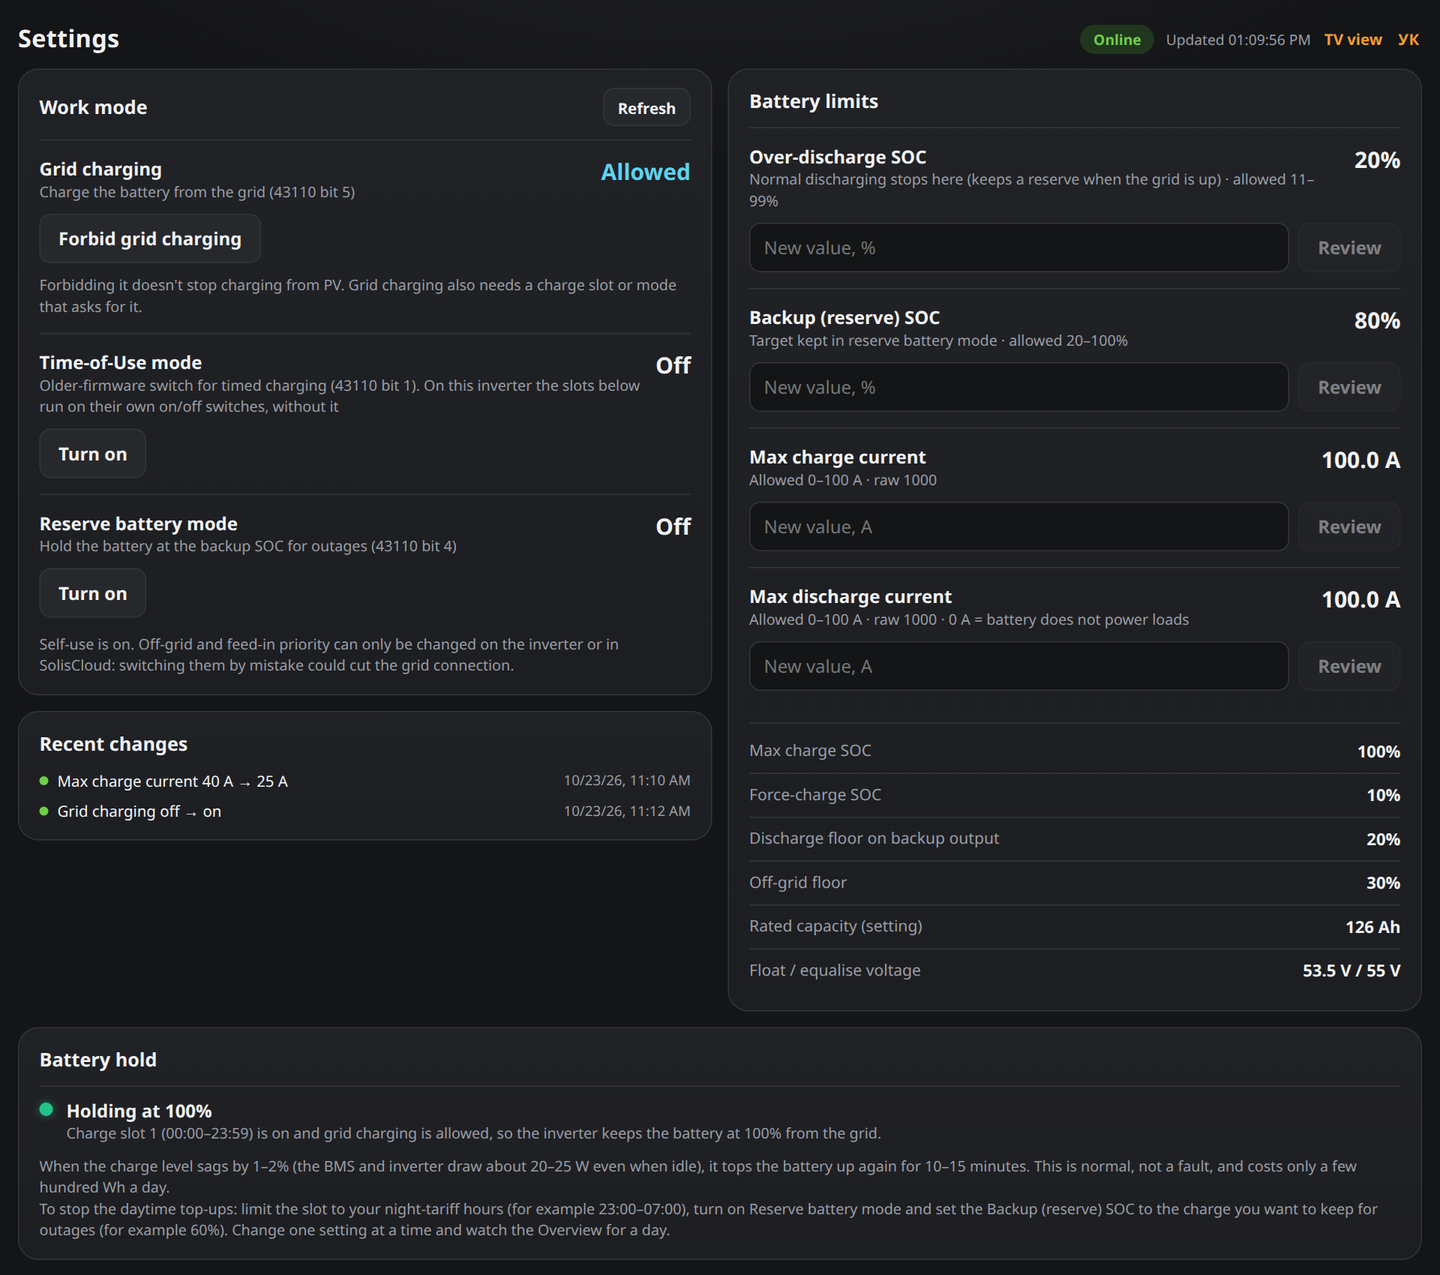
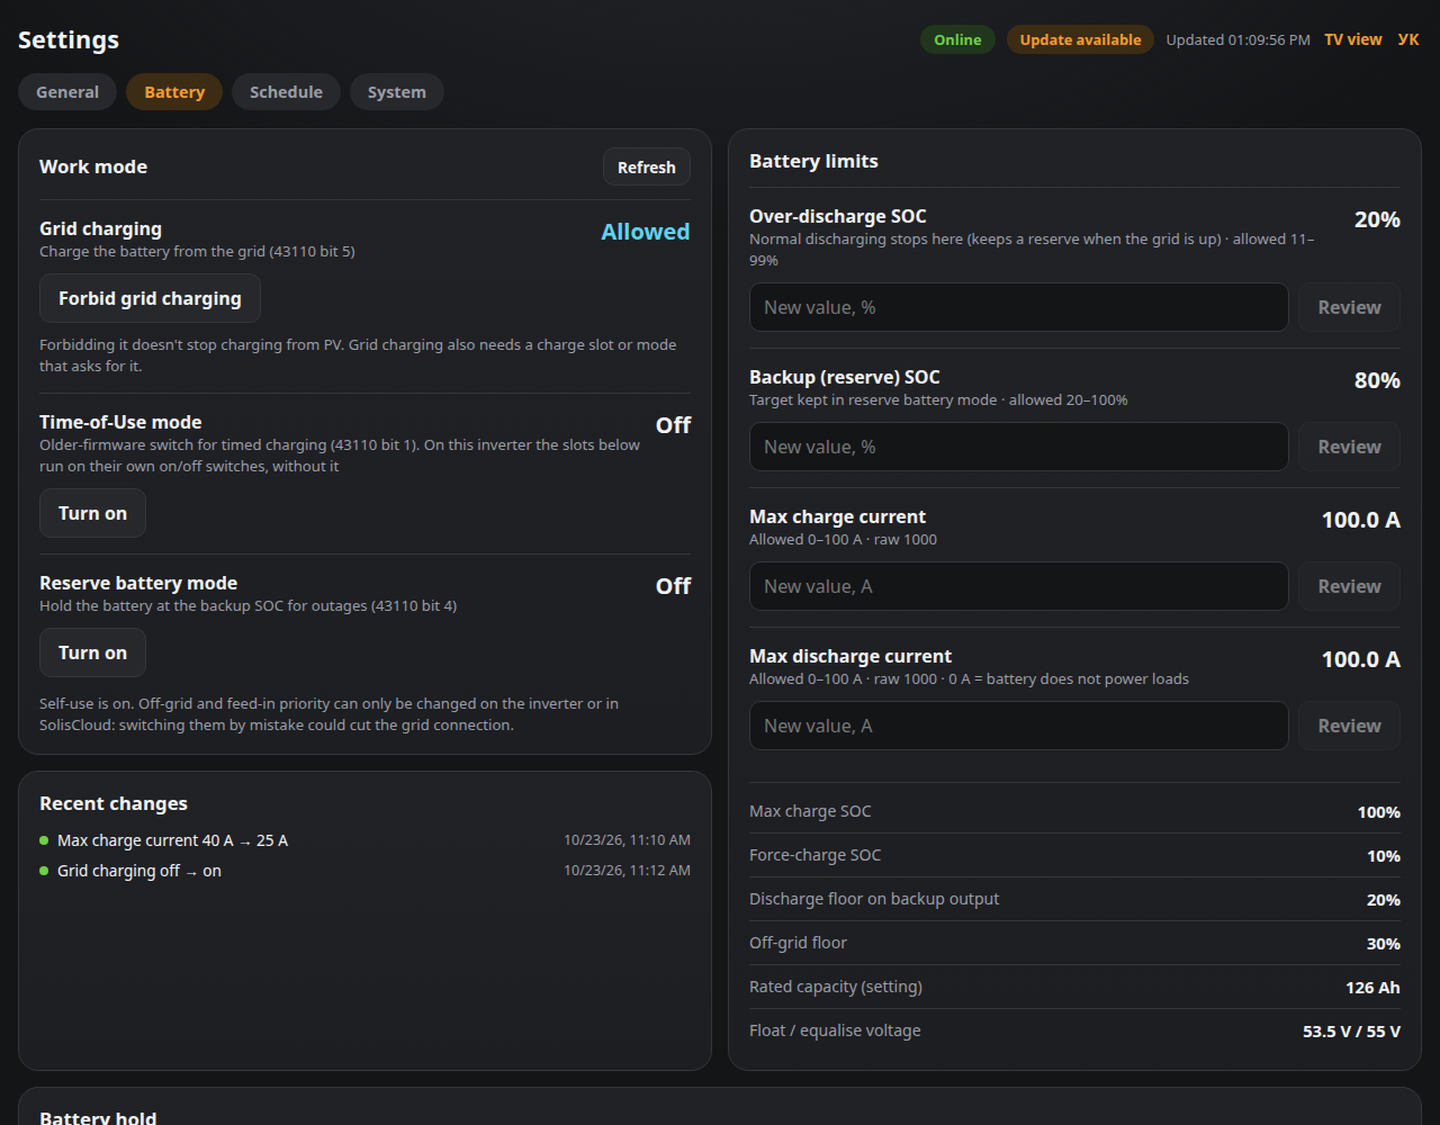
Settings page in tabs: General, Battery, Schedule, System
General holds the tariff beside the inverter clock and storage mode, aligned to the same bottom line; Battery has
work mode, recent changes, limits and battery hold; System has the Software card. The tab is in the URL and the
Update available badge opens System. Docs and screenshot updated.

diff --git a/web/frontend/src/pages/Settings.tsx b/web/frontend/src/pages/Settings.tsx
@@ -3,6 +3,8 @@ import { useCallback, useEffect, useState } from 'preact/hooks';
 import { Card, Header, Skeleton } from '../components/common';
 import { TariffCard } from '../components/TariffCard';
 import { UpdateCard } from '../components/UpdateCard';
+import { goTo } from '../lib/nav';
+import { SETTINGS_TABS, tabFrom, type SettingsTab } from '../lib/settingsTabs';
 import { ApiError, getJson } from '../lib/api';
 import { holdInfo } from '../lib/hold';
 import { locale, t, tx, unit } from '../lib/i18n';
@@ -286,6 +288,10 @@ function ClockCard({ s, wait, onPropose }: { s: SettingsPayload; wait: number; o
   );
 }
 
+const TAB_LABELS: Record<SettingsTab, string> = {
+  general: tx('General'), battery: tx('Battery'), schedule: tx('Schedule'), system: tx('System'),
+};
+
 export function Settings({ live, now }: { live: LiveState; now: number }) {
   const [s, setS] = useState<SettingsPayload | null>(null);
   const [loadedAt, setLoadedAt] = useState(0);
@@ -337,6 +343,81 @@ export function Settings({ live, now }: { live: LiveState; now: number }) {
 
   const propose = (p: Pending) => { setOutcome(null); setPending(p); };
 
+  const tab = tabFrom(location.search);
+  const workCard = (
+<Card title="Work mode" aside={
+            <button type="button" class="btn btn-small" onClick={load} disabled={loading}>{loading ? t('Reading…') : t('Refresh')}</button>
+          }>
+            {!s ? <Skeleton h={220} /> : (
+              <>
+                <FlagRow s={s} k="grid_charging" wait={wait} onPropose={propose}>
+                  {t('Forbidding it doesn\'t stop charging from PV. Grid charging also needs a charge slot or mode that asks for it.')}
+                </FlagRow>
+                <FlagRow s={s} k="time_of_use_mode" wait={wait} onPropose={propose} />
+                <FlagRow s={s} k="reserve_mode" wait={wait} onPropose={propose} />
+                <div class="setting-hint">
+                  {t('Self-use is {state}.', { state: s.storage_flags.self_use ? t('on') : t('off') })}{' '}
+                  {t('Off-grid and feed-in priority can only be changed on the inverter or in SolisCloud: switching them by mistake could cut the grid connection.')}
+                </div>
+                {s.web.can_change && wait > 0 && <div class="setting-hint" data-testid="wait">{t('Next change allowed in {n} s', { n: wait })}</div>}
+              </>
+            )}
+          </Card>
+  );
+  const limitsCard = (
+<Card title="Battery limits">
+            {!s ? <Skeleton h={220} /> : (
+              <>
+                <SocRow s={s} k="overdischarge_soc" wait={wait} onPropose={propose}
+                        hint={tx('Normal discharging stops here (keeps a reserve when the grid is up)')} />
+                <SocRow s={s} k="backup_soc" wait={wait} onPropose={propose}
+                        hint={tx('Target kept in reserve battery mode')} />
+                <CurrentRow s={s} k="max_charge_current_a" wait={wait} onPropose={propose} />
+                <CurrentRow s={s} k="max_discharge_current_a" wait={wait} onPropose={propose} />
+                <dl class="kv kv-tight">
+                  <div><dt>{t('Max charge SOC')}</dt><dd>{s.battery.max_charge_soc}%</dd></div>
+                  <div><dt>{t('Force-charge SOC')}</dt><dd>{s.battery.force_charge_soc}%</dd></div>
+                  <div><dt>{t('Discharge floor on backup output')}</dt><dd>{s.battery.eps_dod}%</dd></div>
+                  <div><dt>{t('Off-grid floor')}</dt><dd>{s.battery.offgrid_overdischarge_soc}%</dd></div>
+                  <div><dt>{t('Rated capacity (setting)')}</dt><dd>{s.battery.rated_capacity_ah} {unit('Ah')}</dd></div>
+                  <div><dt>{t('Float / equalise voltage')}</dt><dd>{s.battery.float_voltage} {unit('V')} / {s.battery.equalize_voltage} {unit('V')}</dd></div>
+                </dl>
+              </>
+            )}
+          </Card>
+  );
+  const logCard = (
+<Card title="Recent changes">
+            {log == null ? <div class="setting-hint">{t('Change log unavailable.')}</div>
+              : log.length === 0 ? <div class="setting-hint">{t('No changes yet.')}</div>
+              : (
+                <ul class="changelog">
+                  {log.map((c) => (
+                    <li key={c.time}>
+                      <span class={`dot ${c.verified ? 'ok' : 'bad'}`} title={c.verified ? t('verified') : t('not kept by the inverter')} />
+                      <span class="changelog-summary">{c.summary ?? c.action}</span>
+                      <time>{new Date(c.time).toLocaleString(locale(), { dateStyle: 'short', timeStyle: 'short' })}</time>
+                    </li>
+                  ))}
+                </ul>
+              )}
+          </Card>
+  );
+  const storageCard = (
+<Card title="Storage mode">
+              {!s ? <Skeleton h={120} /> : (
+                <>
+                  <div class="flags">
+                    {Object.entries(s.storage_flags).map(([name, on]) => (
+                      <span key={name} class={`flag ${on ? 'on' : ''}`}>{t(name.replace(/_/g, ' '))}</span>
+                    ))}
+                  </div>
+                  <div class="setting-hint">{t('Register 43110 = {n}.', { n: s.storage_switch_raw })}</div>
+                </>
+              )}
+            </Card>
+  );
+
   return (
     <div class="page settings">
       <Header live={live} now={now} title="Settings" />
@@ -374,88 +455,37 @@ export function Settings({ live, now }: { live: LiveState; now: number }) {
         </div>
       )}
 
-      <div class="settings-grid">
-        <div class="settings-top">
-          <Card title="Work mode" class="area-work" aside={
-            <button type="button" class="btn btn-small" onClick={load} disabled={loading}>{loading ? t('Reading…') : t('Refresh')}</button>
-          }>
-            {!s ? <Skeleton h={220} /> : (
-              <>
-                <FlagRow s={s} k="grid_charging" wait={wait} onPropose={propose}>
-                  {t('Forbidding it doesn\'t stop charging from PV. Grid charging also needs a charge slot or mode that asks for it.')}
-                </FlagRow>
-                <FlagRow s={s} k="time_of_use_mode" wait={wait} onPropose={propose} />
-                <FlagRow s={s} k="reserve_mode" wait={wait} onPropose={propose} />
-                <div class="setting-hint">
-                  {t('Self-use is {state}.', { state: s.storage_flags.self_use ? t('on') : t('off') })}{' '}
-                  {t('Off-grid and feed-in priority can only be changed on the inverter or in SolisCloud: switching them by mistake could cut the grid connection.')}
-                </div>
-                {s.web.can_change && wait > 0 && <div class="setting-hint" data-testid="wait">{t('Next change allowed in {n} s', { n: wait })}</div>}
-              </>
-            )}
-          </Card>
+      <nav class="settings-tabs" role="tablist" aria-label={t('Settings sections')}>
+        {SETTINGS_TABS.map((k) => (
+          <button key={k} type="button" role="tab" aria-selected={tab === k} class={tab === k ? 'on' : ''} data-testid={`tab-${k}`}
+                  onClick={() => goTo('settings', { tab: k })}>{t(TAB_LABELS[k])}</button>
+        ))}
+      </nav>
 
-          <Card title="Battery limits" class="area-limits">
-            {!s ? <Skeleton h={220} /> : (
-              <>
-                <SocRow s={s} k="overdischarge_soc" wait={wait} onPropose={propose}
-                        hint={tx('Normal discharging stops here (keeps a reserve when the grid is up)')} />
-                <SocRow s={s} k="backup_soc" wait={wait} onPropose={propose}
-                        hint={tx('Target kept in reserve battery mode')} />
-                <CurrentRow s={s} k="max_charge_current_a" wait={wait} onPropose={propose} />
-                <CurrentRow s={s} k="max_discharge_current_a" wait={wait} onPropose={propose} />
-                <dl class="kv kv-tight">
-                  <div><dt>{t('Max charge SOC')}</dt><dd>{s.battery.max_charge_soc}%</dd></div>
-                  <div><dt>{t('Force-charge SOC')}</dt><dd>{s.battery.force_charge_soc}%</dd></div>
-                  <div><dt>{t('Discharge floor on backup output')}</dt><dd>{s.battery.eps_dod}%</dd></div>
-                  <div><dt>{t('Off-grid floor')}</dt><dd>{s.battery.offgrid_overdischarge_soc}%</dd></div>
-                  <div><dt>{t('Rated capacity (setting)')}</dt><dd>{s.battery.rated_capacity_ah} {unit('Ah')}</dd></div>
-                  <div><dt>{t('Float / equalise voltage')}</dt><dd>{s.battery.float_voltage} {unit('V')} / {s.battery.equalize_voltage} {unit('V')}</dd></div>
-                </dl>
-              </>
-            )}
-          </Card>
-
-          <Card title="Recent changes" class="area-log">
-            {log == null ? <div class="setting-hint">{t('Change log unavailable.')}</div>
-              : log.length === 0 ? <div class="setting-hint">{t('No changes yet.')}</div>
-              : (
-                <ul class="changelog">
-                  {log.map((c) => (
-                    <li key={c.time}>
-                      <span class={`dot ${c.verified ? 'ok' : 'bad'}`} title={c.verified ? t('verified') : t('not kept by the inverter')} />
-                      <span class="changelog-summary">{c.summary ?? c.action}</span>
-                      <time>{new Date(c.time).toLocaleString(locale(), { dateStyle: 'short', timeStyle: 'short' })}</time>
-                    </li>
-                  ))}
-                </ul>
-              )}
-          </Card>
-        </div>
-
-        {s && <HoldCard s={s} />}
-        {s && <TouCard s={s} wait={wait} onPropose={propose} />}
-
-        <div class="settings-bottom">
+      {tab === 'general' && (
+        <div class="settings-row settings-general">
           <TariffCard />
-          <div class="settings-stack">
+          <div class="settings-col">
             {s && <ClockCard s={s} wait={wait} onPropose={propose} />}
-            <UpdateCard />
-            <Card title="Storage mode">
-              {!s ? <Skeleton h={120} /> : (
-                <>
-                  <div class="flags">
-                    {Object.entries(s.storage_flags).map(([name, on]) => (
-                      <span key={name} class={`flag ${on ? 'on' : ''}`}>{t(name.replace(/_/g, ' '))}</span>
-                    ))}
-                  </div>
-                  <div class="setting-hint">{t('Register 43110 = {n}.', { n: s.storage_switch_raw })}</div>
-                </>
-              )}
-            </Card>
+            {storageCard}
           </div>
         </div>
-      </div>
+      )}
+      {tab === 'battery' && (
+        <>
+          <div class="settings-row">
+            <div class="settings-col">{workCard}{logCard}</div>
+            {limitsCard}
+          </div>
+          {s && <HoldCard s={s} />}
+        </>
+      )}
+      {tab === 'schedule' && s && <TouCard s={s} wait={wait} onPropose={propose} />}
+      {tab === 'system' && (
+        <div class="settings-row">
+          <UpdateCard />
+        </div>
+      )}
     </div>
   );
 }

diff --git a/web/frontend/src/styles.css b/web/frontend/src/styles.css
@@ -199,18 +199,16 @@ button { font: inherit; color: inherit; }
 .daily-readout { display: flex; flex-wrap: wrap; gap: 4px 14px; font-size: 0.82rem; min-height: 1.4em; margin-top: 6px; font-variant-numeric: tabular-nums; }
 
 /* ---------------------------------------------------------------- settings */
-.settings-grid { display: grid; gap: 14px; grid-template-columns: minmax(0, 1fr); }
-.settings-grid > * { min-width: 0; }
-/* Work mode, Battery limits and Recent changes: one column on a phone, and on desktop Recent changes fills the space under Work mode. */
-.settings-top { display: grid; gap: 14px; grid-template-columns: minmax(0, 1fr); grid-template-areas: "work" "limits" "log"; grid-column: 1 / -1; }
-.settings-top > * { min-width: 0; align-self: start; }
-.area-work { grid-area: work; }
-.area-limits { grid-area: limits; }
-.area-log { grid-area: log; }
-/* Electricity tariff beside the clock and storage-mode cards */
-.settings-bottom { display: grid; gap: 14px; grid-template-columns: minmax(0, 1fr); grid-column: 1 / -1; }
-.settings-bottom > * { min-width: 0; align-self: start; }
-.settings-stack { display: grid; gap: 14px; align-content: start; }
+/* Settings: tabs, then rows of cards. A row is one column on a phone; on desktop its cards end on the same line. */
+.settings-tabs { display: flex; gap: 8px; flex-wrap: wrap; margin: 4px 0 16px; }
+.settings-tabs button { padding: 7px 16px; border: 0; border-radius: 999px; background: var(--c-surface2); color: var(--c-muted); font: inherit; font-weight: 600; font-size: 0.9rem; cursor: pointer; }
+.settings-tabs button:hover { color: var(--c-text); }
+.settings-tabs button.on { background: #3d2c14; color: var(--c-warn); }
+.settings-tabs button:focus-visible { outline: 2px solid var(--c-warn); outline-offset: 2px; }
+.settings-row { display: grid; gap: 14px; grid-template-columns: minmax(0, 1fr); align-items: stretch; margin-bottom: 14px; }
+.settings-row > * { min-width: 0; }
+.settings-col { display: flex; flex-direction: column; gap: 14px; min-width: 0; }
+.settings-col > .card:last-child { flex: 1; }          /* the last card fills the column, so both sides end together */
 .tariff-now { font-weight: 600; margin-bottom: 12px; line-height: 1.4; }
 .tariff-form { display: grid; gap: 10px; grid-template-columns: 1fr 1fr; align-items: end; }
 .tariff-form label { display: grid; gap: 4px; font-size: 0.85rem; color: var(--c-muted); min-width: 0; }
@@ -426,9 +424,8 @@ a.link { text-decoration: none; }
   .top { flex-direction: row; justify-content: space-between; }
 }
 @media (min-width: 1024px) {
-  .settings-grid { grid-template-columns: repeat(2, minmax(0, 1fr)); align-items: start; }
-  .settings-bottom { grid-template-columns: repeat(2, minmax(0, 1fr)); }
-  .settings-top { grid-template-columns: repeat(2, minmax(0, 1fr)); grid-template-rows: auto 1fr; grid-template-areas: "work limits" "log limits"; }
+  .settings-row { grid-template-columns: repeat(2, minmax(0, 1fr)); }
+  .settings-row.settings-general { grid-template-columns: minmax(0, 3fr) minmax(0, 2fr); }     /* prices wider, clock and storage mode narrower */
   .stat-row { grid-template-columns: repeat(6, 1fr); }
   .overview-grid { grid-template-columns: minmax(0, 560px) minmax(0, 1fr); align-items: stretch; gap: 28px; }   /* both columns end on the same line */
   .chips-row { justify-content: flex-start; }

diff --git a/web/frontend/src/lib/settingsTabs.test.ts b/web/frontend/src/lib/settingsTabs.test.ts
@@ -1,0 +1,22 @@
+import { describe, expect, it } from 'vitest';
+import { tabFrom } from './settingsTabs';
+
+describe('settings tab from the URL', () => {
+  it('opens General by default', () => {
+    expect(tabFrom('')).toBe('general');
+    expect(tabFrom('?view=settings')).toBe('general');
+  });
+  it('opens the named tab', () => {
+    expect(tabFrom('?view=settings&tab=battery')).toBe('battery');
+    expect(tabFrom('?view=settings&tab=schedule')).toBe('schedule');
+    expect(tabFrom('?view=settings&tab=system')).toBe('system');
+  });
+  it('ignores a tab that does not exist', () => {
+    expect(tabFrom('?view=settings&tab=nope')).toBe('general');
+    expect(tabFrom('?tab=__proto__')).toBe('general');
+  });
+  it('opens System for the update link (the Software card lives there)', () => {
+    expect(tabFrom('?view=settings&update=1')).toBe('system');
+    expect(tabFrom('?view=settings&tab=battery&update=1')).toBe('battery');
+  });
+});

diff --git a/web/frontend/src/components/UpdateBadge.tsx b/web/frontend/src/components/UpdateBadge.tsx
@@ -5,13 +5,13 @@ import { updateBadge, type VersionPayload } from '../lib/update';
 
 const RECHECK_MS = 10 * 60_000;     // only reads the server's own answer; the server asks GitHub every few hours
 
-/** "Update available" next to the Online pill on every page. It opens Settings -> Software with the update ready to confirm. */
+/** "Update available" next to the Online pill on every page. It opens Settings -> System -> Software with the update ready to confirm. */
 export function UpdateBadge() {
   const badge = updateBadge(usePoll<VersionPayload>('/api/version', RECHECK_MS).data);
   if (!badge) return null;
   return (
     <button type="button" class="pill pill-update" title={badge.title} data-testid="update-badge"
-            onClick={() => goTo('settings', { update: '1' })}>
+            onClick={() => goTo('settings', { tab: 'system', update: '1' })}>
       {t(badge.label)}
     </button>
   );

diff --git a/web/frontend/src/lib/settingsTabs.ts b/web/frontend/src/lib/settingsTabs.ts
@@ -1,0 +1,11 @@
+/** Sections of the Settings page; the chosen one lives in the URL (?view=settings&tab=battery). */
+export const SETTINGS_TABS = ['general', 'battery', 'schedule', 'system'] as const;
+export type SettingsTab = (typeof SETTINGS_TABS)[number];
+
+/** The tab named in the URL; the header's "Update available" badge (?update=1) opens System; otherwise General. */
+export function tabFrom(search: string): SettingsTab {
+  const q = new URLSearchParams(search);
+  const tab = q.get('tab');
+  if ((SETTINGS_TABS as readonly string[]).includes(tab ?? '')) return tab as SettingsTab;
+  return q.get('update') ? 'system' : 'general';
+}

diff --git a/web/frontend/src/lib/i18n.uk.ts b/web/frontend/src/lib/i18n.uk.ts
@@ -364,6 +364,7 @@ export const UK: Record<string, string> = {
     "Оновлення зупинилося, не завершившись. Дивіться: solis-monitor logs",
   "Update available": "Доступне оновлення",
   "{version} is available. Click to review and update.": "Доступна версія {version}. Натисніть, щоб переглянути й оновити.",
+  "General": "Загальні", "System": "Система", "Settings sections": "Розділи налаштувань",
 };
 
 /** Messages the poller builds with numbers in them: matched when there is no exact key. */

diff --git a/docs/development.md b/docs/development.md
@@ -33,7 +33,7 @@ See also `CLAUDE.md` in the repository root for an architecture overview written
 
 ## Updating from the dashboard (how it works)
 
-The web container has no Docker access on purpose. **Settings → Software** (`web/frontend/src/components/UpdateCard.tsx`) calls `/api/settings/update*` (`web/backend/app/main.py`, logic in `updates.py`). Those endpoints sit behind the Settings login and the same same-origin checks as every other change. They only ever:
+The web container has no Docker access on purpose. **Settings → System → Software** (`web/frontend/src/components/UpdateCard.tsx`) calls `/api/settings/update*` (`web/backend/app/main.py`, logic in `updates.py`). Those endpoints sit behind the Settings login and the same same-origin checks as every other change. They only ever:
 
 1. ask GitHub for the newest published release of `SOLIS_REPO` (on button press at most once per 30 s, and in the background every `UPDATE_CHECK_HOURS`, default 6, +-10 % jitter, ETag so an unchanged answer is free, backing off after failures; `/api/version` publishes the result for the header badge), and
 2. drop a request file in `control/` (`./control` on the host, `/control` in the container).

diff --git a/README.md b/README.md
@@ -141,7 +141,7 @@ solis-monitor edit              # open your settings file (.env) in an editor, t
 solis-monitor apply             # apply a .env you edited by hand (restarts only what changed)
 ```
 
-**From the dashboard:** when a newer release exists, an **Update available** badge appears next to the Online pill on every page (the server looks for one every 6 hours). Click it to open **Settings → Software** with the update ready to confirm, or press **Check for updates** there yourself.
+**From the dashboard:** when a newer release exists, an **Update available** badge appears next to the Online pill on every page (the server looks for one every 6 hours). Click it to open **Settings → System → Software** with the update ready to confirm, or press **Check for updates** there yourself.
 
 <img src="docs/img/update-badge.png" width="420" alt="Update available badge next to the Online pill">
 

diff --git a/docs/settings.md b/docs/settings.md
@@ -2,6 +2,8 @@
 
 ![Settings page](img/settings.png)
 
+The Settings page has four tabs: **General** (electricity tariff, inverter clock, storage mode), **Battery** (work mode, limits, battery hold), **Schedule** (Time-of-Use slots) and **System** (software updates). The tab is kept in the address (`?view=settings&tab=battery`).
+
 The Settings page reads the inverter's settings live, and can change these:
 
 | Setting | Register | Notes |
